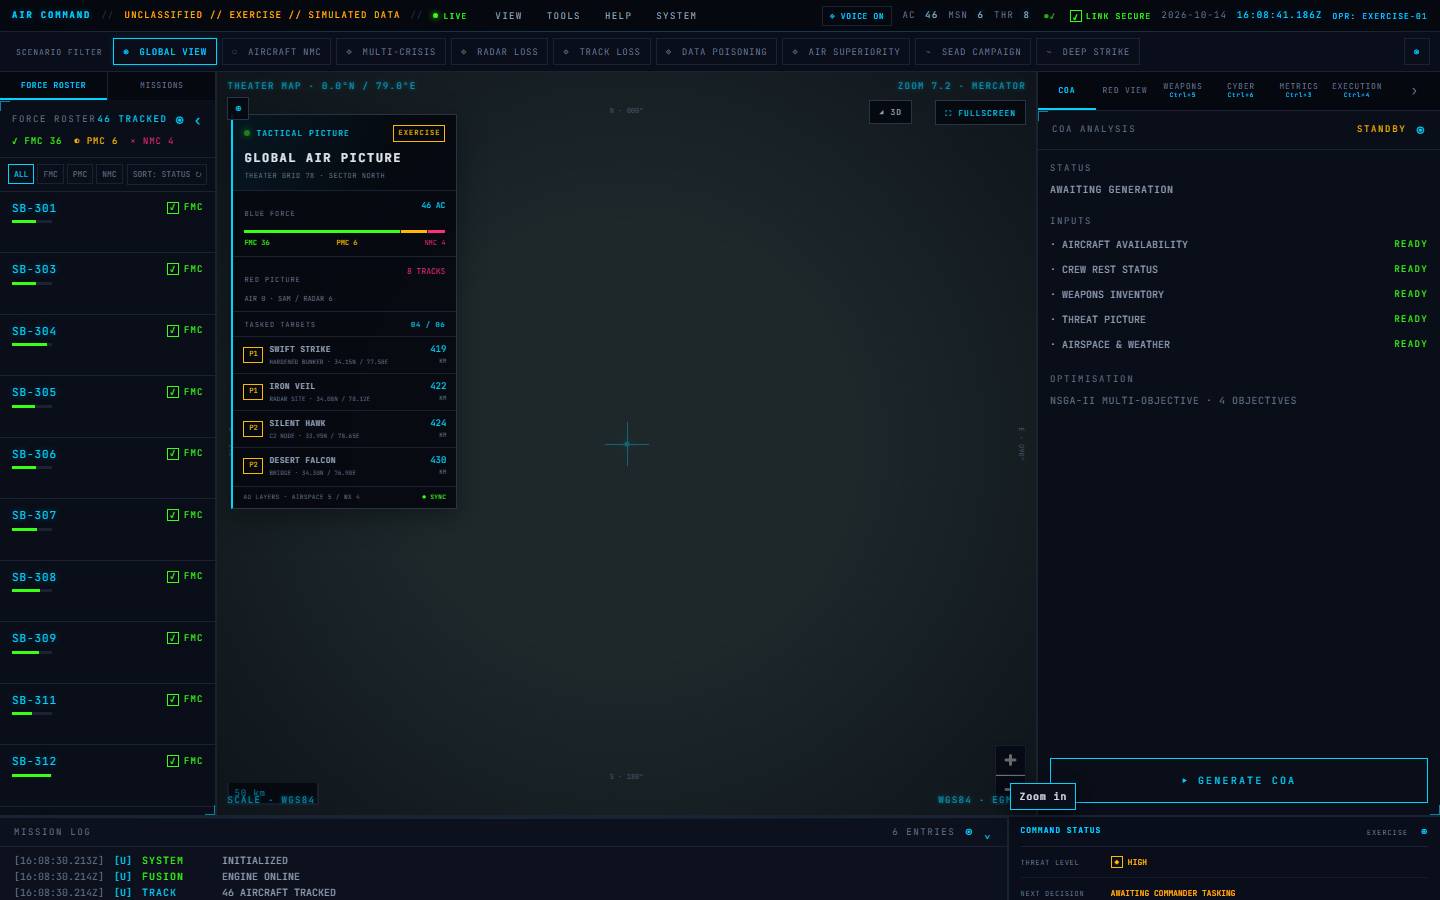
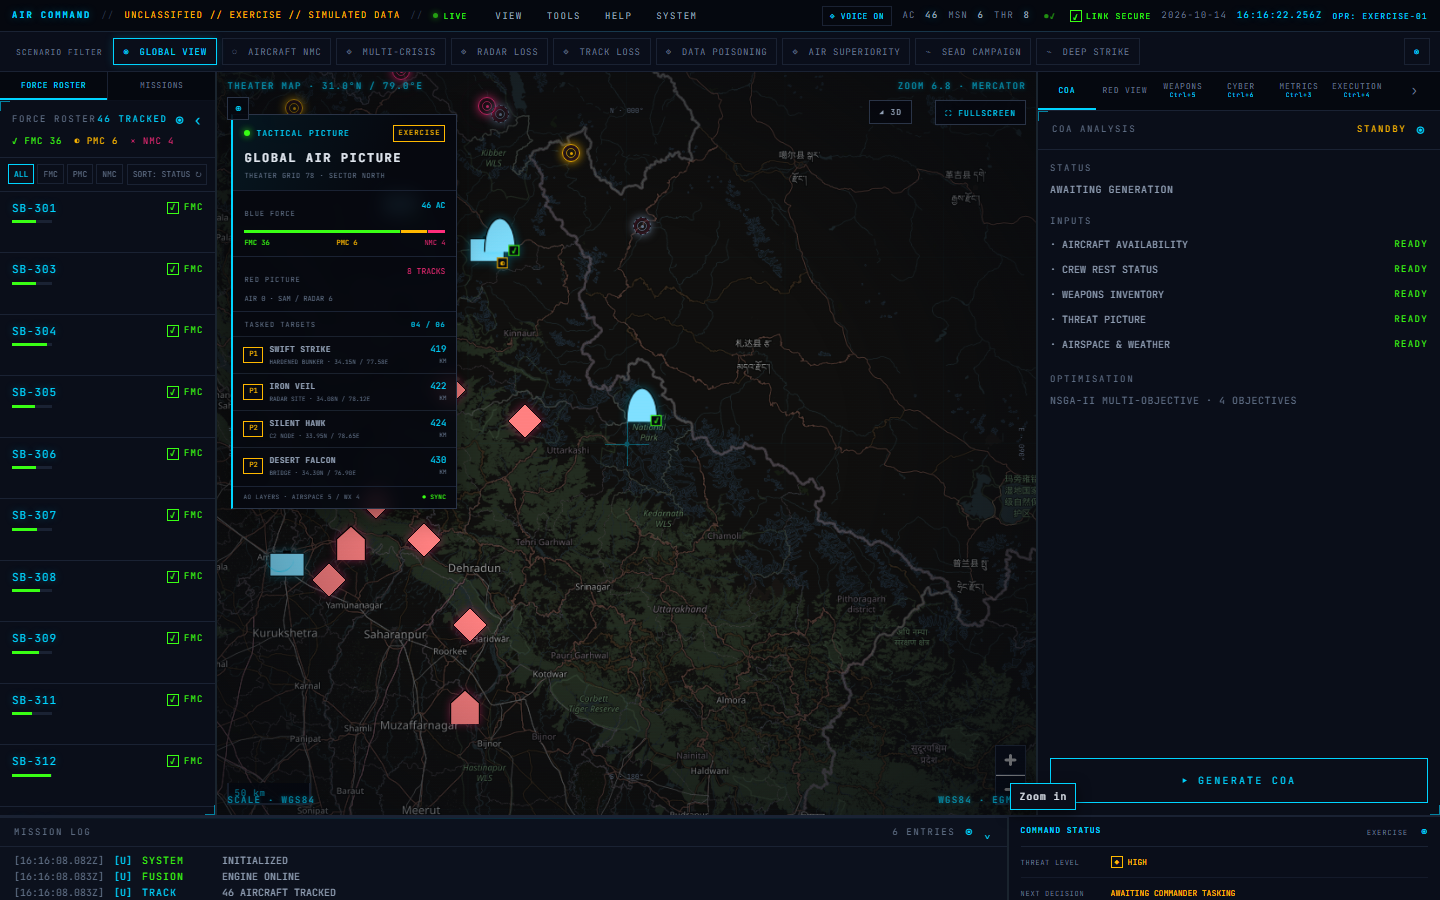
Fix: map labels and refresh profiling evidence

diff --git a/src/lib/components/map/TacticalMap.svelte b/src/lib/components/map/TacticalMap.svelte
@@ -33,7 +33,7 @@
   let container: HTMLDivElement;
   let map: maplibregl.Map | null = null;
   let mapReady = $state(false);
-  let mapZoom = $state(4.2);
+  let mapZoom = $state(3.8);
   let mapCenterLabel = $state('31.0°N / 79.0°E');
   let dynamicMarkers: maplibregl.Marker[] = [];
   let aircraftCountMarker: maplibregl.Marker | null = null;
@@ -151,7 +151,7 @@
       },
     },
     layers: [
-      { id: 'bg', type: 'raster', source: 'osm', paint: { 'raster-resampling': 'nearest' } },
+      { id: 'bg', type: 'raster', source: 'osm', paint: { 'raster-resampling': 'linear' } },
       {
         id: 'hillshade-base',
         type: 'hillshade',
@@ -227,8 +227,13 @@
     });
     if (!map.getLayer('aircraft-gl-symbols')) map.addLayer({
       id: 'aircraft-gl-symbols', type: 'symbol', source: 'aircraft-gl', minzoom: 4, filter: ['!', ['has', 'point_count']],
-      layout: { 'icon-image': ['match', ['get', 'status'], 'FMC', 'aircraft-FMC', 'PMC', 'aircraft-PMC', 'aircraft-NMC'], 'icon-size': ['interpolate', ['linear'], ['zoom'], 4, 0.3, 7, 0.6, 10, 1, 13, 1.3], 'icon-allow-overlap': true, 'icon-ignore-placement': true, 'text-field': ['get', 'tailNumber'], 'text-font': ['Open Sans Regular'], 'text-size': 9, 'text-offset': [0, 1.15], 'text-anchor': 'top', 'text-optional': true },
-      paint: { 'icon-opacity': ['interpolate', ['linear'], ['zoom'], 4, 0, 5, 0.7, 6, 1] },
+      layout: { 'icon-image': ['match', ['get', 'status'], 'FMC', 'aircraft-FMC', 'PMC', 'aircraft-PMC', 'aircraft-NMC'], 'icon-size': ['interpolate', ['linear'], ['zoom'], 4, 0.3, 7, 0.6, 10, 1, 13, 1.3], 'icon-allow-overlap': true, 'icon-ignore-placement': true, 'text-field': ['get', 'tailNumber'], 'text-font': ['Open Sans Regular'], 'text-size': 10, 'text-offset': [0, 1.4], 'text-anchor': 'top', 'text-optional': true, 'text-allow-overlap': true, 'text-ignore-placement': true },
+      paint: { 'icon-opacity': ['interpolate', ['linear'], ['zoom'], 4, 0, 5, 0.7, 6, 1], 'text-color': '#00d4ff', 'text-opacity': ['interpolate', ['linear'], ['zoom'], 4, 0, 5, 0.7, 6, 1], 'text-halo-color': '#05080f', 'text-halo-width': 1.5 },
+    });
+    if (!map.getLayer('aircraft-gl-labels')) map.addLayer({
+      id: 'aircraft-gl-labels', type: 'symbol', source: 'aircraft-gl', minzoom: 5, filter: ['!', ['has', 'point_count']],
+      layout: { 'text-field': ['get', 'tailNumber'], 'text-font': ['Open Sans Bold'], 'text-size': 10, 'text-offset': [0, 1.7], 'text-anchor': 'top', 'text-allow-overlap': true, 'text-ignore-placement': true },
+      paint: { 'text-color': '#00d4ff', 'text-halo-color': '#05080f', 'text-halo-width': 2 },
     });
     if (!aircraftLayerClickAttached) {
       map.on('click', 'aircraft-gl-symbols', (event) => {
@@ -256,7 +261,7 @@
         const current = system.aircraft;
         if (!current.length) return;
         const focus = current.reduce((sum, item) => ({ lng: sum.lng + item.position.lng / current.length, lat: sum.lat + item.position.lat / current.length }), { lng: 0, lat: 0 });
-        map?.flyTo({ center: [focus.lng, focus.lat], zoom: 4.2, duration: 700 });
+        map?.flyTo({ center: [focus.lng, focus.lat], zoom: 5.2, duration: 700 });
       });
       aircraftCountMarker = new maplibregl.Marker({ element: badge, anchor: 'center' }).setLngLat([center.lng, center.lat]).addTo(map);
     } else aircraftCountMarker.setLngLat([center.lng, center.lat]);
@@ -446,7 +451,7 @@
       container,
       style: MAP_STYLE,
       center: [79, 31],
-      zoom: 4.2,
+      zoom: 3.8,
       attributionControl: false,
       dragRotate: false,
     });
@@ -634,7 +639,7 @@
     if (scenarioKey !== lastScenarioView) {
       lastScenarioView = scenarioKey;
       if (area) map.fitBounds(area, { padding: 70, duration: 850, maxZoom: 7.4 });
-      else if (scenarioKey === null) map.flyTo({ center: [79, 31], zoom: 4.2, duration: 850 });
+      else if (scenarioKey === null) map.flyTo({ center: [79, 31], zoom: 3.8, duration: 850 });
     }
     const areaSource = map.getSource('scenario-area') as maplibregl.GeoJSONSource | undefined;
     if (areaSource) {
